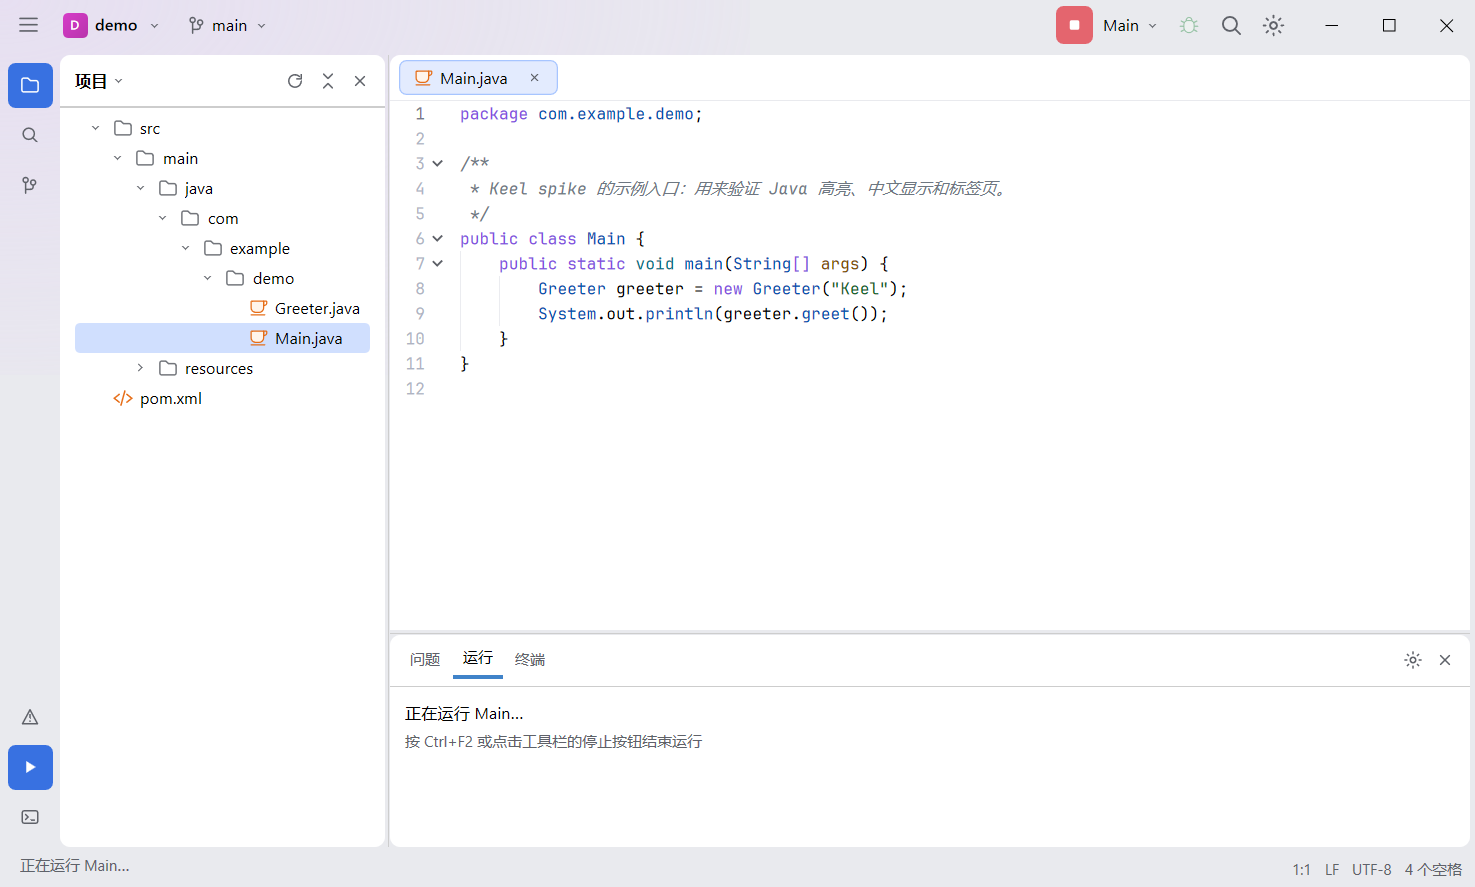
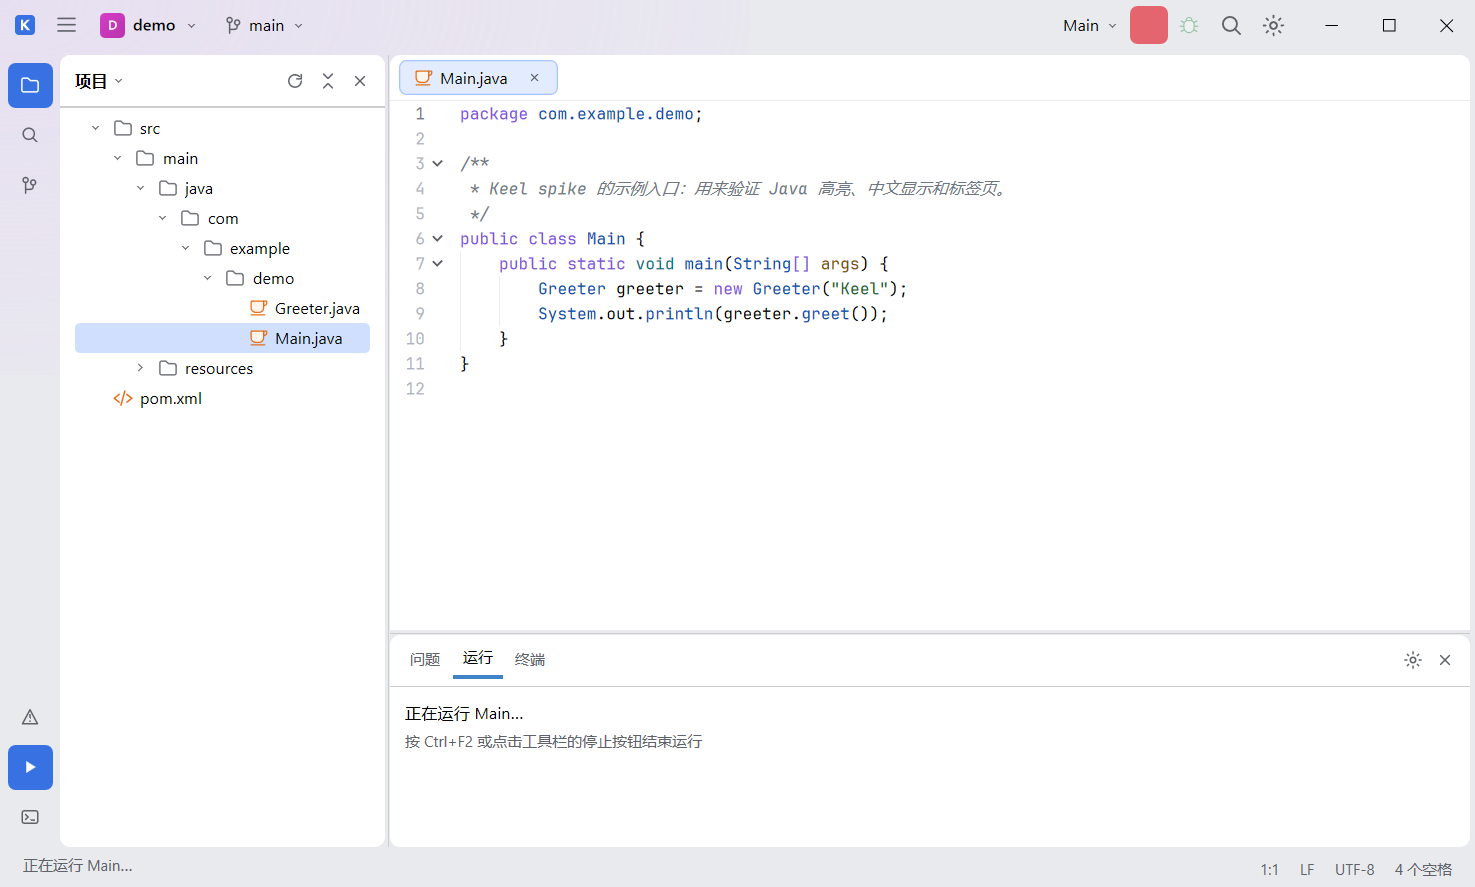
视觉：标题栏应用图标与状态栏 widget 交互
- 标题栏加 16x16 应用图标，左边距 12；左组/右组内间距 4、组间距 10
- run widget 改为配置选择 -> 运行 -> 调试，与 IDEA 主工具栏顺序一致
- 状态栏四个状态项改为独立 widget：高 22、左右内边距 8、hover 圆角块，点击弹出位置/换行/编码/缩进菜单
- 面包屑每段可点击，在项目树中定位对应目录或文件
- 补状态栏编码菜单与面包屑导航测试，截图刷新

diff --git a/App.test.tsx b/App.test.tsx
@@ -54,6 +54,25 @@ test("opens the project widget menu", async () => {
   await app.keyboard.press("escape");
 });
 
+test("opens the encoding status menu", async () => {
+  const app = await open(".");
+  await app.press("label:文件编码");
+  await app.waitFor("text:GBK");
+  await app.press("text:GBK");
+  await app.waitFor("text:编码：GBK（设置将在 P3 接入）");
+});
+
+test("navigates from a breadcrumb", async () => {
+  const app = await open(".");
+  // 没有打开示例项目时没有面包屑；启动提示会先占用状态栏 4 秒。
+  if (app.count("text:demo") === 0) {
+    return;
+  }
+  await app.wait(4500);
+  await app.press("label:面包屑 src");
+  await app.waitFor("text:已在项目中定位 src");
+});
+
 test("opens the project tree context menu", async () => {
   const app = await open(".");
   // 没有打开示例项目时跳过。

diff --git a/Screenshot.test.tsx b/Screenshot.test.tsx
@@ -57,6 +57,8 @@ test("captures a preview tab", async () => {
   }
   await app.press("text:Greeter.java");
   await app.waitFor("text:预览 Greeter.java");
+  // 等图标在下一帧重绘完成，避免截到只画了文字的中间帧。
+  await app.wait(300);
   await app.screenshot("docs/screenshots/nsh-p2-preview.png");
 });
 

diff --git a/src/lib.rs b/src/lib.rs
@@ -79,15 +79,34 @@ fn title_bar_row(shell: Shell) -> impl IntoElement {
             let top = title_bar().top;
             if top > px(0.0) { top } else { px(40.0) }
         })
-        .pl(move || title_bar().left + px(8.0))
+        .pl(move || title_bar().left + px(12.0))
         .pr(move || title_bar().right + px(8.0))
+        .flex_row()
+        .items_center()
+        .gap(px(10.0))
+        .child(svg(icons::APP).w(px(16.0)).h(px(16.0)))
+        .child(left_tools(shell))
+        .child(view().flex_1())
+        .child(right_tools(shell))
+}
+
+/// 标题栏左组：主菜单、项目控件、分支控件（组内间距 4，组间距 10）。
+fn left_tools(shell: Shell) -> impl IntoElement {
+    view()
         .flex_row()
         .items_center()
         .gap(px(4.0))
         .child(commands::main_menu(shell))
         .child(project_widget(shell))
         .child(branch_widget(shell))
-        .child(view().flex_1())
+}
+
+/// 标题栏右组：run widget、搜索、设置。
+fn right_tools(shell: Shell) -> impl IntoElement {
+    view()
+        .flex_row()
+        .items_center()
+        .gap(px(4.0))
         .child(run_widget::run_widget(shell))
         .child(toolbar_button(icons::SEARCH, "搜索操作", move || {
             shell.open_palette()
@@ -280,10 +299,11 @@ fn editor_column(shell: Shell) -> impl IntoElement {
     )
 }
 
-/// 状态栏：左侧面包屑（临时提示优先），右侧行列 / 换行 / 编码 / 缩进。
+/// 状态栏：左侧面包屑（临时提示优先），右侧位置 / 换行 / 编码 / 缩进。
 ///
-/// IDEA 默认把导航栏（面包屑）放在状态栏左侧，状态项从位置开始依次为
-/// `行:列`、换行符、编码、缩进；分支在标题栏，不再重复显示。
+/// IDEA 默认把导航栏（面包屑）放在状态栏左侧；右侧每个状态项都是独立
+/// widget，内边距 6,8、hover 圆角块，点击弹出对应菜单。分支在标题栏，
+/// 不再重复显示。
 fn status_bar(shell: Shell) -> impl IntoElement {
     let ws = shell.ws;
     view()
@@ -291,7 +311,7 @@ fn status_bar(shell: Shell) -> impl IntoElement {
         .px(px(10.0))
         .flex_row()
         .items_center()
-        .gap(px(10.0))
+        .gap(px(0.0))
         .bg(move || color_of("status-bar"))
         .text_color(move || color_of("muted-fg"))
         .child(
@@ -307,7 +327,7 @@ fn status_bar(shell: Shell) -> impl IntoElement {
                     } else {
                         view()
                             .h(px(22.0))
-                            .px(px(6.0))
+                            .px(px(8.0))
                             .items_center()
                             .child(
                                 text(message)
@@ -319,8 +339,87 @@ fn status_bar(shell: Shell) -> impl IntoElement {
                     }
                 })),
         )
-        .child(text(move || ws.cursor.get()).text_size(px(12.0)))
-        .child(text("LF").text_size(px(12.0)))
-        .child(text("UTF-8").text_size(px(12.0)))
-        .child(text("4 个空格").text_size(px(12.0)))
+        .child(position_status(shell))
+        .child(status_choice(shell, "LF", "换行符", LINE_ENDINGS))
+        .child(status_choice(shell, "UTF-8", "文件编码", ENCODINGS))
+        .child(status_choice(shell, "4 个空格", "缩进", INDENTS))
+}
+
+const LINE_ENDINGS: &[(&str, &str)] = &[
+    ("LF", "换行符：LF（设置将在 P3 接入）"),
+    ("CRLF", "换行符：CRLF（设置将在 P3 接入）"),
+    ("CR", "换行符：CR（设置将在 P3 接入）"),
+];
+
+const ENCODINGS: &[(&str, &str)] = &[
+    ("UTF-8", "编码：UTF-8（设置将在 P3 接入）"),
+    ("GBK", "编码：GBK（设置将在 P3 接入）"),
+    ("ISO-8859-1", "编码：ISO-8859-1（设置将在 P3 接入）"),
+];
+
+const INDENTS: &[(&str, &str)] = &[
+    ("4 个空格", "缩进：4 个空格（设置将在 P3 接入）"),
+    ("2 个空格", "缩进：2 个空格（设置将在 P3 接入）"),
+    ("制表符", "缩进：制表符（设置将在 P3 接入）"),
+];
+
+/// 光标位置 widget：点击弹出“转到行/列…”。
+fn position_status(shell: Shell) -> impl IntoElement {
+    let ws = shell.ws;
+    let trigger = status_trigger(
+        "光标位置",
+        text(move || ws.cursor.get())
+            .text_size(px(12.0))
+            .text_color(move || color_of("muted-fg")),
+    );
+    menu()
+        .offset(px(4.0))
+        .popup_style(popup_style)
+        .trigger(trigger)
+        .child(menu_action(
+            None,
+            "转到行/列…",
+            None,
+            None,
+            move || shell.ws.say("转到行/列将在 P3 接入"),
+        ))
+}
+
+/// 带弹层的状态项：当前值 + 备选项菜单。
+fn status_choice(
+    shell: Shell,
+    current: &'static str,
+    accessible: &'static str,
+    options: &'static [(&'static str, &'static str)],
+) -> impl IntoElement {
+    let trigger = status_trigger(
+        accessible,
+        text(current)
+            .text_size(px(12.0))
+            .text_color(move || color_of("muted-fg")),
+    );
+    let mut element = menu()
+        .offset(px(4.0))
+        .popup_style(popup_style)
+        .trigger(trigger);
+    for (option, hint) in options {
+        let hint = *hint;
+        element = element.child(menu_action(None, *option, None, None, move || {
+            shell.ws.say(hint)
+        }));
+    }
+    element
+}
+
+fn status_trigger(accessible: &'static str, content: impl IntoElement) -> View {
+    view()
+        .h(px(22.0))
+        .px(px(8.0))
+        .items_center()
+        .justify_center()
+        .rounded(px(2.0))
+        .role(AccessibilityRole::Button)
+        .label(accessible)
+        .hover(|s| s.bg(move || color_of("control-hover")))
+        .child(content)
 }

diff --git a/src/editor_area.rs b/src/editor_area.rs
@@ -308,6 +308,9 @@ pub fn breadcrumbs(shell: Shell) -> impl IntoElement {
     let ws = shell.ws;
     dynamic(move || {
         let root = ws.root_name();
+        let Some(root_path) = ws.root.get() else {
+            return view().into_element();
+        };
         let parts = ws.breadcrumbs();
         if root.is_empty() && parts.is_empty() {
             return view().into_element();
@@ -315,13 +318,18 @@ pub fn breadcrumbs(shell: Shell) -> impl IntoElement {
         let dark = shell.appearance.get() == Appearance::Dark;
         let active_path = ws.active_path();
         let mut row = view().h(px(22.0)).flex_row().items_center().gap(px(2.0));
+        let mut accumulated = root_path;
         let mut has_previous = false;
         if !root.is_empty() {
-            row = row.child(crumb(root, icons::FOLDER));
+            let reveal = accumulated.clone();
+            row = row.child(crumb(root, icons::FOLDER, move || {
+                shell.reveal_path(&reveal)
+            }));
             has_previous = true;
         }
         let last = parts.len().saturating_sub(1);
         for (index, part) in parts.into_iter().enumerate() {
+            accumulated.push(part.as_ref());
             if has_previous {
                 row = row.child(
                     svg(icons::CHEVRON_RIGHT)
@@ -338,14 +346,16 @@ pub fn breadcrumbs(shell: Shell) -> impl IntoElement {
             } else {
                 icons::FOLDER
             };
-            row = row.child(crumb(part, icon));
+            let reveal = accumulated.clone();
+            row = row.child(crumb(part, icon, move || shell.reveal_path(&reveal)));
             has_previous = true;
         }
         row.into_element()
     })
 }
 
-fn crumb(label: SharedString, icon: ImageAsset) -> View {
+fn crumb(label: SharedString, icon: ImageAsset, action: impl Fn() + 'static) -> View {
+    let accessible = format!("面包屑 {label}");
     view()
         .h(px(22.0))
         .px(px(6.0))
@@ -353,7 +363,10 @@ fn crumb(label: SharedString, icon: ImageAsset) -> View {
         .items_center()
         .gap(px(4.0))
         .rounded(px(2.0))
+        .role(AccessibilityRole::Button)
+        .label(accessible)
         .hover(|s| s.bg(move || color_of("control-hover")))
+        .on_press(action)
         .child(
             svg(icon)
                 .w(px(16.0))

diff --git a/src/run_widget.rs b/src/run_widget.rs
@@ -21,8 +21,8 @@ pub fn run_widget(shell: Shell) -> impl IntoElement {
         .flex_row()
         .items_center()
         .gap(px(2.0))
-        .child(run_button(shell))
         .child(config_selector(shell))
+        .child(run_button(shell))
         .child(debug_button(shell))
 }
 

diff --git a/src/icons.rs b/src/icons.rs
@@ -6,6 +6,7 @@
 
 use nsh_core::prelude::*;
 
+pub const APP: ImageAsset = asset!("icons/app.svg");
 pub const MENU: ImageAsset = asset!("icons/menu.svg");
 pub const FOLDER: ImageAsset = asset!("icons/folder.svg");
 pub const FILE: ImageAsset = asset!("icons/file.svg");

diff --git a/README.md b/README.md
@@ -37,7 +37,7 @@ nsh package --target windows
 
 | 区域 | 实现 |
 | --- | --- |
-| 标题栏 | 自绘 40px 标题栏，`.window_drag(true)` 拖动窗口，右侧给系统窗口按钮留白（`title_bar().right`）；主菜单收进左上角汉堡按钮（点击弹出，悬停展开子菜单）、项目色头像 / 项目名 / 分支、run widget（运行 / 配置选择 / 调试）、搜索按钮（点击打开命令面板）、设置按钮；帧背景带项目色径向渐变（左上角 600×300，跟随项目与深浅色） |
+| 标题栏 | 自绘 40px 标题栏，`.window_drag(true)` 拖动窗口，右侧给系统窗口按钮留白（`title_bar().right`）；应用图标 → 左组（主菜单 / 项目色头像 / 项目名 / 分支）→ 右组（run widget（配置选择 / 运行 / 调试）、搜索按钮、设置按钮）；帧背景带项目色径向渐变（左上角 600×300，跟随项目与深浅色） |
 | 应用菜单 | 文件 / 视图 / 导航 / 帮助，全部来自 `keel-commands` 的动作注册表；菜单项带 16×16 SVG 图标与助记符下划线（`文件(F)`、`打开项目(P)…`）；快捷键也从注册表绑定 |
 | 工具窗口条 | 左侧 40px 竖条：项目、搜索、版本控制 |
 | 项目面板 | `resizable_panel` 宽度 180–460、可折叠；标题栏有刷新 / 收起全部 / 隐藏；树用自绘 `scroll` 列表，16×16 文件夹 / 文件图标，右键菜单（打开 / 预览 / 复制路径 / 在项目中定位） |
@@ -45,7 +45,7 @@ nsh package --target windows
 | 运行 | `Shift+F10` 运行、`Ctrl+F2` 停止；run widget 显示绿色运行 / 红色停止按钮、运行配置选择器和调试按钮，运行中打开底部「运行」窗口 |
 | 命令面板 | `Ctrl+Shift+A` 按名称搜索动作注册表；↑↓ 选择、Enter 执行、Esc 关闭；背景用主题的 `overlay` 遮罩 |
 | 底部工具窗口 | 问题 / 运行 / 终端占位；`v_resizable` 高度 90–360；状态栏左侧有图标切换条 |
-| 状态栏 | 左侧面包屑（项目根 → 文件，带图标与箭头；临时提示会短暂覆盖）与右侧行列位置、换行、编码、缩进 |
+| 状态栏 | 左侧面包屑（项目根 → 文件，带图标与箭头，可点击在项目树中定位；临时提示会短暂覆盖）与右侧位置、换行、编码、缩进 widget（hover 底色，点击弹出菜单） |
 
 配色、圆角、编辑器语法配色全部来自
 [`themes/idea-light.json`](themes/idea-light.json) 与
